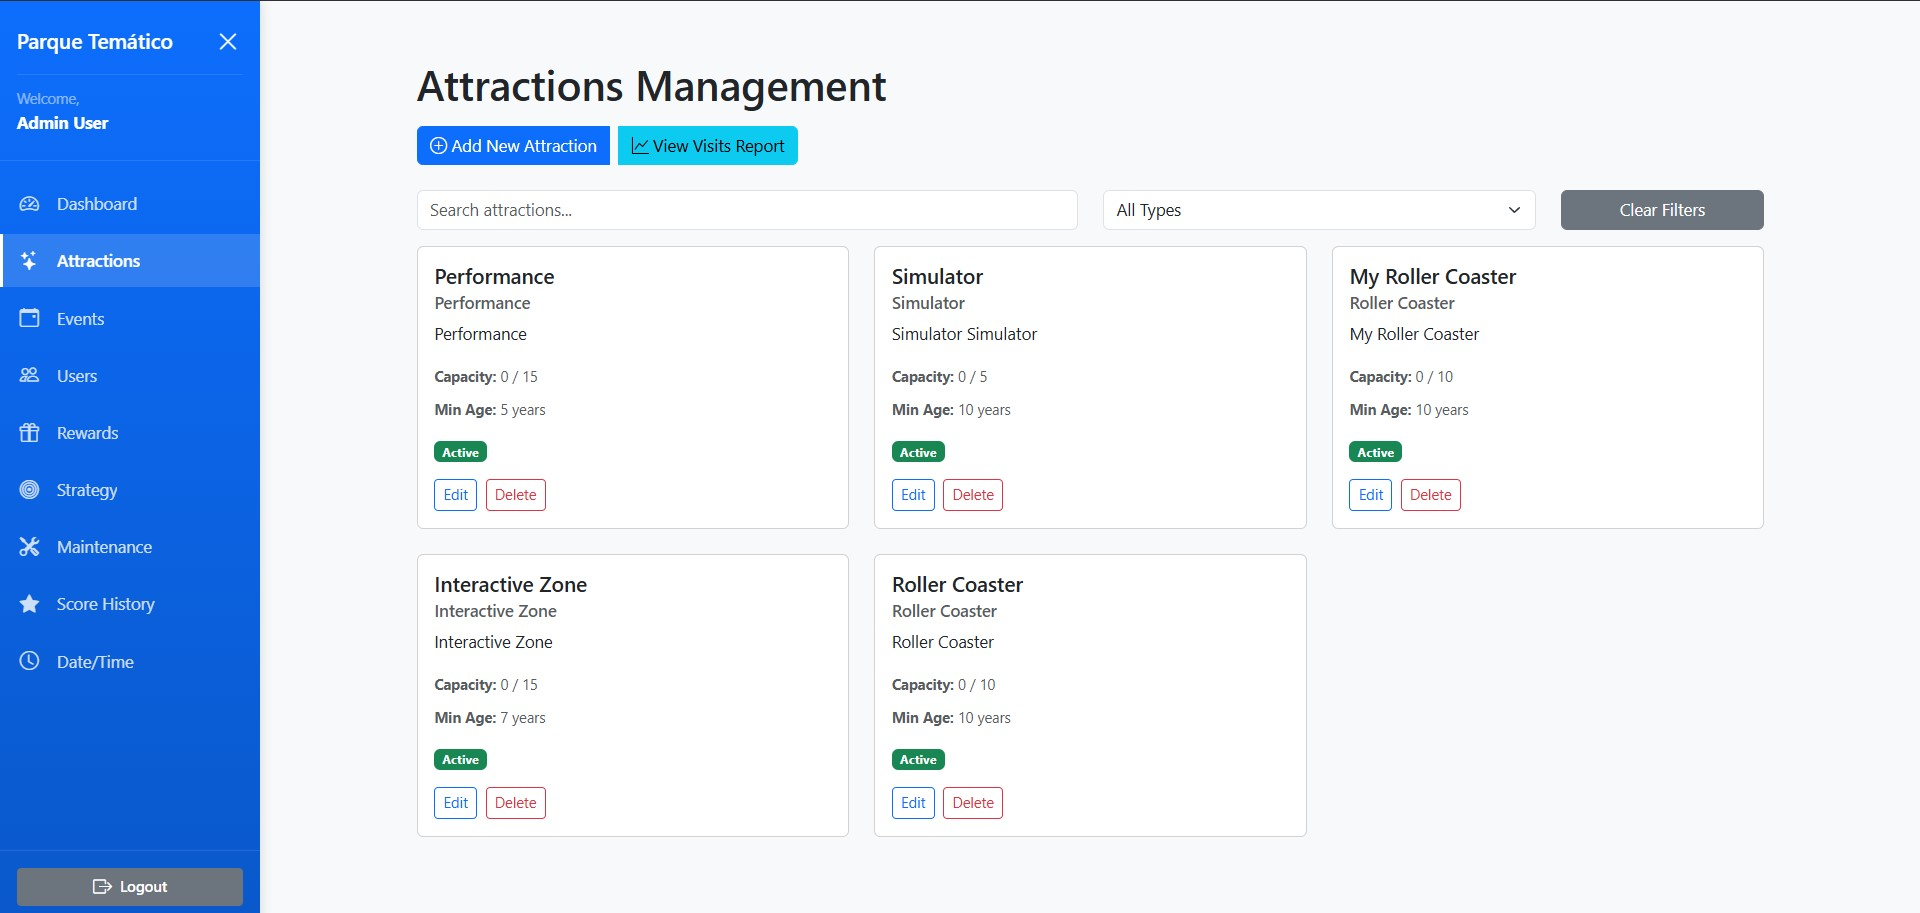
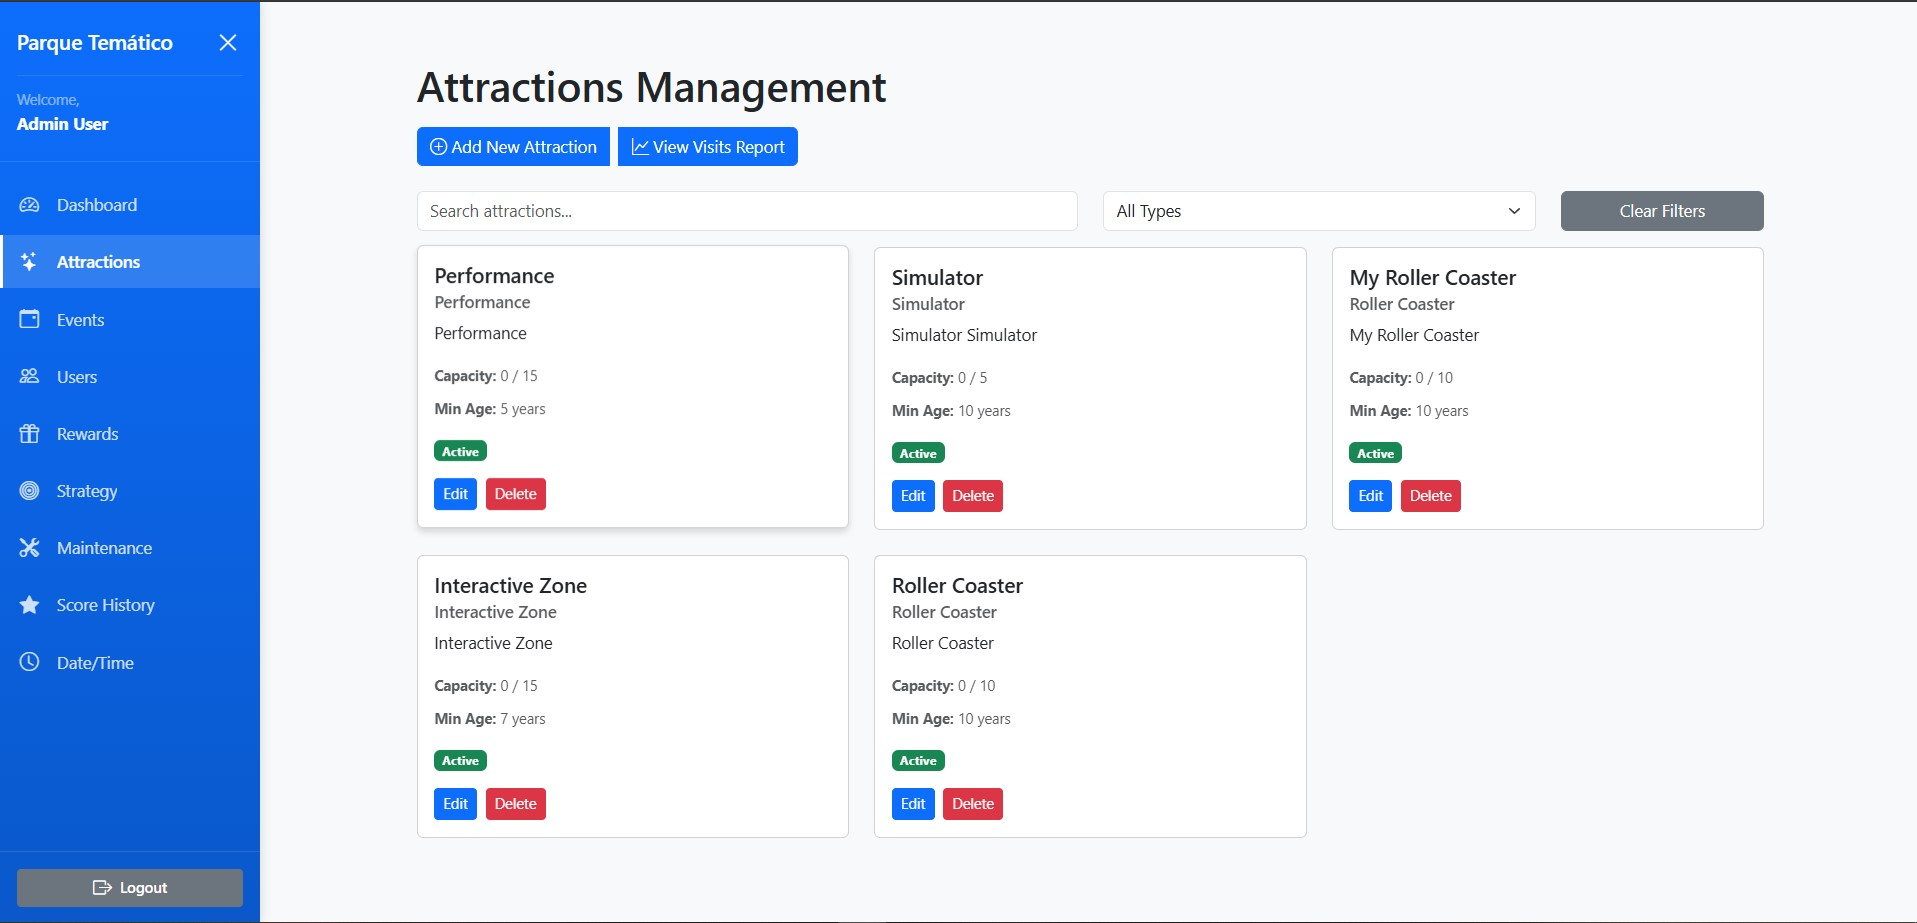
Fix button contrast across frontend: replace outline buttons with solid filled buttons
- Admin dashboard: converted all btn-outline-* quick action and analytics buttons to solid variants (btn-primary, btn-success, btn-warning text-dark, btn-secondary, btn-dark)
- Admin dashboard: changed btn-info to btn-primary for better contrast on stat cards
- Admin list pages: replaced btn-outline-primary/danger on edit/delete buttons
- Operator pages: replaced btn-outline-danger/info filter buttons with solid equivalents
- Visitor pages: replaced all btn-outline-* buttons with solid filled buttons
- Shared components: replaced btn-outline-primary Refresh button with btn-secondary
- Updated screenshots to reflect the new button styling

diff --git a/obligatorio_parque_tematico_virtual/frontend/src/app/features/administrator/dashboard/dashboard.component.html b/obligatorio_parque_tematico_virtual/frontend/src/app/features/administrator/dashboard/dashboard.component.html
@@ -39,7 +39,7 @@
           <div class="card-body">
             <h5 class="card-title">Current Strategy</h5>
             <p class="display-6 text-info">{{ currentStrategy || 'N/A' }}</p>
-            <a routerLink="/admin/strategy" class="btn btn-info btn-sm">Manage Strategy</a>
+            <a routerLink="/admin/strategy" class="btn btn-primary btn-sm">Manage Strategy</a>
           </div>
         </div>
       </div>
@@ -51,7 +51,7 @@
             <p class="display-4" [class.text-danger]="overdueMaintenanceCount > 0" [class.text-muted]="overdueMaintenanceCount === 0">
               {{ overdueMaintenanceCount }}
             </p>
-            <a routerLink="/admin/maintenance/schedules" class="btn btn-sm" [class.btn-danger]="overdueMaintenanceCount > 0" [class.btn-outline-secondary]="overdueMaintenanceCount === 0">
+            <a routerLink="/admin/maintenance/schedules" class="btn btn-sm" [class.btn-danger]="overdueMaintenanceCount > 0" [class.btn-secondary]="overdueMaintenanceCount === 0">
               View Schedules
             </a>
           </div>
@@ -67,16 +67,16 @@
           </div>
           <div class="card-body">
             <div class="d-grid gap-2">
-              <a routerLink="/admin/attractions/new" class="btn btn-outline-primary">
+              <a routerLink="/admin/attractions/new" class="btn btn-primary">
                 Add New Attraction
               </a>
-              <a routerLink="/admin/events/new" class="btn btn-outline-success">
+              <a routerLink="/admin/events/new" class="btn btn-success">
                 Create New Event
               </a>
-              <a routerLink="/admin/maintenance/schedules/create" class="btn btn-outline-warning">
+              <a routerLink="/admin/maintenance/schedules/create" class="btn btn-warning text-dark">
                 Schedule Maintenance
               </a>
-              <a routerLink="/admin/users" class="btn btn-outline-secondary">
+              <a routerLink="/admin/users" class="btn btn-secondary">
                 Manage Users
               </a>
             </div>
@@ -91,13 +91,13 @@
           </div>
           <div class="card-body">
             <div class="d-grid gap-2">
-              <a routerLink="/admin/users" class="btn btn-outline-warning">
+              <a routerLink="/admin/users" class="btn btn-warning text-dark">
                 View Top 10 Visitors
               </a>
-              <a routerLink="/admin/score-history" class="btn btn-outline-secondary">
+              <a routerLink="/admin/score-history" class="btn btn-secondary">
                 View All Score History
               </a>
-              <a routerLink="/admin/strategy" class="btn btn-outline-dark">
+              <a routerLink="/admin/strategy" class="btn btn-dark">
                 Manage Strategy
               </a>
             </div>

diff --git a/obligatorio_parque_tematico_virtual/frontend/src/app/features/administrator/attractions/attractions-list/attractions-list.component.html b/obligatorio_parque_tematico_virtual/frontend/src/app/features/administrator/attractions/attractions-list/attractions-list.component.html
@@ -7,7 +7,7 @@
         <a routerLink="/admin/attractions/new" class="btn btn-primary">
           <i class="bi bi-plus-circle"></i> Add New Attraction
         </a>
-        <a routerLink="/admin/attractions/visits" class="btn btn-info ms-2">
+        <a routerLink="/admin/attractions/visits" class="btn btn-primary ms-2">
           <i class="bi bi-graph-up"></i> View Visits Report
         </a>
       </div>
@@ -93,10 +93,10 @@
               </div>
 
               <div class="d-flex gap-2">
-                <a [routerLink]="['/admin/attractions/edit', attraction.id]" class="btn btn-sm btn-outline-primary">
+                <a [routerLink]="['/admin/attractions/edit', attraction.id]" class="btn btn-sm btn-primary">
                   Edit
                 </a>
-                <button (click)="deleteAttraction(attraction.id)" class="btn btn-sm btn-outline-danger">
+                <button (click)="deleteAttraction(attraction.id)" class="btn btn-sm btn-danger">
                   Delete
                 </button>
               </div>

diff --git a/obligatorio_parque_tematico_virtual/frontend/src/app/features/visitor/rewards/browse-rewards.component.html b/obligatorio_parque_tematico_virtual/frontend/src/app/features/visitor/rewards/browse-rewards.component.html
@@ -3,7 +3,7 @@
     <h1>Available Rewards</h1>
     <div>
       <span class="badge bg-primary fs-5 me-2">Your Points: {{ userPoints }}</span>
-      <a routerLink="/visitor/my-redemptions" class="btn btn-outline-primary">
+      <a routerLink="/visitor/my-redemptions" class="btn btn-primary">
         My Redemption History
       </a>
     </div>
@@ -71,11 +71,11 @@
                       Out of Stock
                     </button>
                   } @else if (!hasEnoughPoints(reward)) {
-                    <button class="btn btn-outline-danger" disabled>
+                    <button class="btn btn-danger" disabled>
                       Insufficient Points
                     </button>
                   } @else if (!meetsMembershipRequirement(reward)) {
-                    <button class="btn btn-outline-warning" disabled>
+                    <button class="btn btn-warning text-dark" disabled>
                       Membership Required
                     </button>
                   } @else {

diff --git a/obligatorio_parque_tematico_virtual/frontend/src/app/features/administrator/plugins/plugin-list.component.html b/obligatorio_parque_tematico_virtual/frontend/src/app/features/administrator/plugins/plugin-list.component.html
@@ -48,7 +48,7 @@
                   <i class="bi bi-upload"></i> Upload }
                 </button>
                 @if (selectedFile && !uploading) {
-                <button class="btn btn-outline-secondary" (click)="clearFile()">
+                <button class="btn btn-secondary" (click)="clearFile()">
                   <i class="bi bi-x"></i>
                 </button>
                 }
@@ -128,7 +128,7 @@
             <div class="card-footer bg-transparent mt-auto">
               @if (plugin.name !== currentStrategy?.name) {
               <button
-                class="btn btn-outline-primary btn-sm"
+                class="btn btn-primary btn-sm"
                 (click)="activatePlugin(plugin.name)"
               >
                 <i class="bi bi-check-circle"></i> Activate This Strategy

diff --git a/obligatorio_parque_tematico_virtual/frontend/src/app/features/operator/maintenance/operator-maintenance.component.html b/obligatorio_parque_tematico_virtual/frontend/src/app/features/operator/maintenance/operator-maintenance.component.html
@@ -11,14 +11,14 @@
 
       <!-- Filter Buttons -->
       <div class="mb-3">
-        <button class="btn btn-outline-danger me-2" (click)="toggleOverdue()">
+        <button class="btn btn-danger me-2" (click)="toggleOverdue()">
           <i class="bi bi-exclamation-triangle"></i>
           {{ showOverdue ? 'Hide' : 'Show' }} Overdue
           @if (overdueSchedules.length > 0) {
             <span class="badge bg-danger ms-1">{{ overdueSchedules.length }}</span>
           }
         </button>
-        <button class="btn btn-outline-info" (click)="toggleUpcoming()">
+        <button class="btn btn-primary" (click)="toggleUpcoming()">
           <i class="bi bi-calendar-event"></i>
           {{ showUpcoming ? 'Hide' : 'Show' }} Upcoming (7 days)
           @if (upcomingSchedules.length > 0) {

diff --git a/obligatorio_parque_tematico_virtual/frontend/src/app/features/administrator/rewards/rewards-list.component.html b/obligatorio_parque_tematico_virtual/frontend/src/app/features/administrator/rewards/rewards-list.component.html
@@ -67,11 +67,11 @@
                     <td>
                       <div class="btn-group" role="group">
                         <a [routerLink]="['/admin/rewards/edit', reward.id]"
-                           class="btn btn-sm btn-outline-primary">
+                           class="btn btn-sm btn-primary">
                           Edit
                         </a>
                         <button (click)="deleteReward(reward)"
-                                class="btn btn-sm btn-outline-danger"
+                                class="btn btn-sm btn-danger"
                                 [disabled]="deleting === reward.id">
                           {{ deleting === reward.id ? 'Deleting...' : 'Delete' }}
                         </button>

diff --git a/obligatorio_parque_tematico_virtual/frontend/src/app/features/visitor/dashboard/dashboard.component.html b/obligatorio_parque_tematico_virtual/frontend/src/app/features/visitor/dashboard/dashboard.component.html
@@ -75,7 +75,7 @@
               }
             </div>
             <div class="mt-2">
-              <a routerLink="/visitor/score-history" class="btn btn-sm btn-outline-primary">View Full History</a>
+              <a routerLink="/visitor/score-history" class="btn btn-sm btn-primary">View Full History</a>
             </div>
           }
         </div>
@@ -115,7 +115,7 @@
               </table>
             </div>
             <div class="mt-2">
-              <a routerLink="/visitor/tickets" class="btn btn-sm btn-outline-primary">View All Tickets</a>
+              <a routerLink="/visitor/tickets" class="btn btn-sm btn-primary">View All Tickets</a>
             </div>
           }
         </div>

diff --git a/obligatorio_parque_tematico_virtual/frontend/src/app/features/operator/incidents/incidents.component.html b/obligatorio_parque_tematico_virtual/frontend/src/app/features/operator/incidents/incidents.component.html
@@ -28,7 +28,7 @@
                       <li class="list-group-item d-flex justify-content-between align-items-center">
                         {{ incident }}
                         <button
-                          class="btn btn-sm btn-outline-danger"
+                          class="btn btn-sm btn-danger"
                           (click)="removeIncident(attraction.id, incident)"
                         >
                           Remove

diff --git a/obligatorio_parque_tematico_virtual/frontend/src/app/features/administrator/users/create-user/create-user.component.html b/obligatorio_parque_tematico_virtual/frontend/src/app/features/administrator/users/create-user/create-user.component.html
@@ -84,7 +84,7 @@
               <button type="submit" class="btn btn-primary" [disabled]="loading || userForm.invalid">
                 {{ loading ? 'Creating...' : 'Create User' }}
               </button>
-              <button type="button" class="btn btn-outline-secondary" (click)="goBack()">
+              <button type="button" class="btn btn-secondary" (click)="goBack()">
                 Cancel
               </button>
             </div>

diff --git a/obligatorio_parque_tematico_virtual/frontend/src/app/features/administrator/events/events-list/events-list.component.html b/obligatorio_parque_tematico_virtual/frontend/src/app/features/administrator/events/events-list/events-list.component.html
@@ -73,7 +73,7 @@
                 <small>{{ event.attractions.length }} attraction(s)</small>
               </td>
               <td>
-                <button (click)="deleteEvent(event.id)" class="btn btn-sm btn-outline-danger">
+                <button (click)="deleteEvent(event.id)" class="btn btn-sm btn-danger">
                   Delete
                 </button>
               </td>

diff --git a/obligatorio_parque_tematico_virtual/frontend/src/app/features/operator/dashboard/dashboard.component.html b/obligatorio_parque_tematico_virtual/frontend/src/app/features/operator/dashboard/dashboard.component.html
@@ -45,7 +45,7 @@
                 routerLink="/operator/maintenance"
                 class="btn btn-sm"
                 [class.btn-warning]="pendingMaintenanceCount > 0"
-                [class.btn-outline-secondary]="pendingMaintenanceCount === 0"
+                [class.btn-secondary]="pendingMaintenanceCount === 0"
               >
                 Record Work
               </a>

diff --git a/obligatorio_parque_tematico_virtual/frontend/src/app/features/visitor/rewards/my-redemptions.component.html b/obligatorio_parque_tematico_virtual/frontend/src/app/features/visitor/rewards/my-redemptions.component.html
@@ -30,7 +30,7 @@
           <button class="btn btn-primary me-2" (click)="applyFilter()">
             Apply Filter
           </button>
-          <button class="btn btn-outline-secondary" (click)="clearFilter()">
+          <button class="btn btn-secondary" (click)="clearFilter()">
             Clear
           </button>
         </div>
